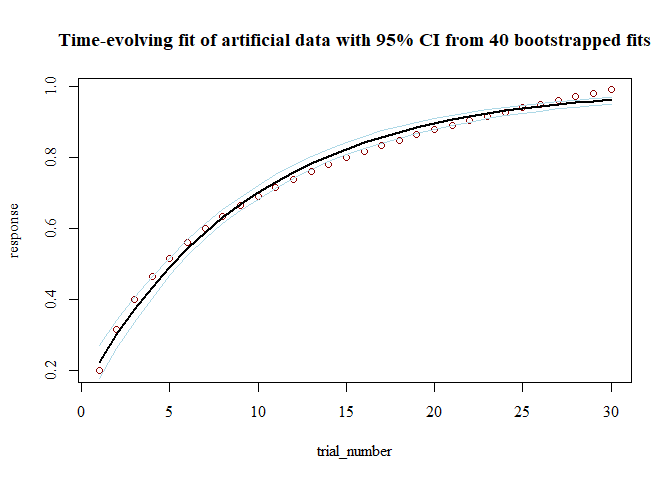
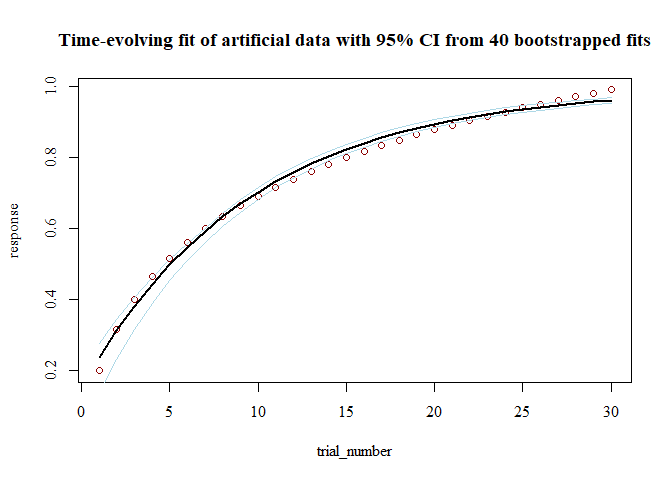
update README
include installation instructions

diff --git a/README.md b/README.md
@@ -11,14 +11,20 @@ Behavioral data is described, interpreted, and tested using indices such as d pr
 
 The **TEfits** package has a heavy emphasis on interpretability of parameters. As far as possible, parameters fit by **TEfits** are meant to reflect human-interpretable representations of time-evolving processes. Error functions, nonlinear ("change") functions linking predicted values to parameters and time, parameter and prediction boundaries, and goodness-of-fit indices are intended to be clear and adjustable. An equal emphasis is on ease of use: minimal arguments are necessary to begin using the primary function, `TEfit()`, and many common tasks are fully automated (e.g., optimization starting points, bootstrapping).
 
+Installing and loading the package
+----------------------------------
+
+The R package `devtools` includes a very easy way to install packages from Github.
+
+    devtools::install_github('akcochrane/TEfits')
+
 Simple model of exponential change
 ----------------------------------
 
 A basic model nonlinearly relating time to an outcome variable. The first argument is a data frame, with the first column being the response variable and the second column being the time variable.
 
 ``` r
-# If necessary, install package:
-# devtools::install_github('akcochrane/TEfits')
+library(TEfits)
 
 # generate artificial data:
 dat_simple <- data.frame(response=log(2:31),trial_number=1:30)
@@ -29,7 +35,7 @@ mod_simple <- TEfit(dat_simple[,c('response','trial_number')])
 plot(mod_simple,plot_title='Time-evolving fit of artificial data')
 ```
 
-![](README_files/figure-markdown_github/simple_model-1.png)
+![](README_files/figure-markdown_github/model_simple-1.png)
 
 ``` r
 summary(mod_simple)
@@ -89,19 +95,19 @@ summary(mod_boot)
     ## 
     ## >> Fit Values:
     ##        Estimate  Q025  Q975 pseudoSE
-    ## pAsym     0.999 0.983 1.000    0.004
-    ## pRate     2.707 2.586 2.847    0.067
-    ## pStart    0.224 0.179 0.271    0.023
+    ## pAsym     0.997 0.984 1.000    0.004
+    ## pRate     2.712 2.539 2.792    0.065
+    ## pStart    0.236 0.139 0.276    0.035
     ## 
     ## >> Goodness-of-fit:
-    ##                err  nullErr nPars nObs      BIC  nullBIC    deltaBIC
-    ## bernoulli 13.42474 16.83409     3   30 37.05307 37.06937 -0.01629702
+    ##                err  nullErr nPars nObs     BIC  nullBIC    deltaBIC
+    ## bernoulli 13.42761 16.83409     3   30 37.0588 37.06937 -0.01056722
     ## 
     ## >> Test of change in nonindependence:
     ##                          rawSpearman modelConditionalSpearman
-    ## response ~ trial_number:          -1             -0.002447164
+    ## response ~ trial_number:          -1               -0.1697442
     ##                          proportionalSpearmanChange pValSpearmanChange
-    ## response ~ trial_number:                0.002447164                  0
+    ## response ~ trial_number:                  0.1697442                  0
     ##                          pval_KPSS_null pval_KPSS_model
     ## response ~ trial_number:          < .01            > .1
     ## 
@@ -110,11 +116,11 @@ summary(mod_boot)
     ## >> Timepoint at which resampled estimates diverge from timepoint 1, with Cohen's d>1: 2 
     ## 
     ## >> Bootstrapped parameter correlations:
-    ##         pAsym pStart pRate    err
-    ## pAsym   1.000 -0.211 0.200 -0.341
-    ## pStart -0.211  1.000 0.577  0.726
-    ## pRate   0.200  0.577 1.000  0.296
-    ## err    -0.341  0.726 0.296  1.000
+    ##        pAsym pStart pRate   err
+    ## pAsym  1.000  0.328 0.415 0.175
+    ## pStart 0.328  1.000 0.804 0.435
+    ## pRate  0.415  0.804 1.000 0.212
+    ## err    0.175  0.435 0.212 1.000
 
 Fitting multiple models
 -----------------------
@@ -153,8 +159,8 @@ summary(mod_4group)
     ## 
     ## >> Overall effects:
     ##             pAsym     pStart      pRate
-    ## mean   0.14922724 0.01639027 3.83366608
-    ## stdErr 0.03933406 0.01060449 0.02431492
+    ## mean   0.14922720 0.01639029 3.83366518
+    ## stdErr 0.03933403 0.01060450 0.02431581
     ## 
     ##                 err    nullErr nPars nObs      Fval         Pval   Rsquared
     ## mean   3.005041e-04 0.03071614     3   30 1692.5939 1.110223e-16 0.97598962
@@ -196,7 +202,7 @@ TElm parameter estimates:
 
 |  X.Intercept.|  trial\_number|   rate|
 |-------------:|--------------:|------:|
-|         3.541|          -2.66|  2.899|
+|         3.534|         -2.658|  2.888|
 
 TEfit parameter estimates:
 
